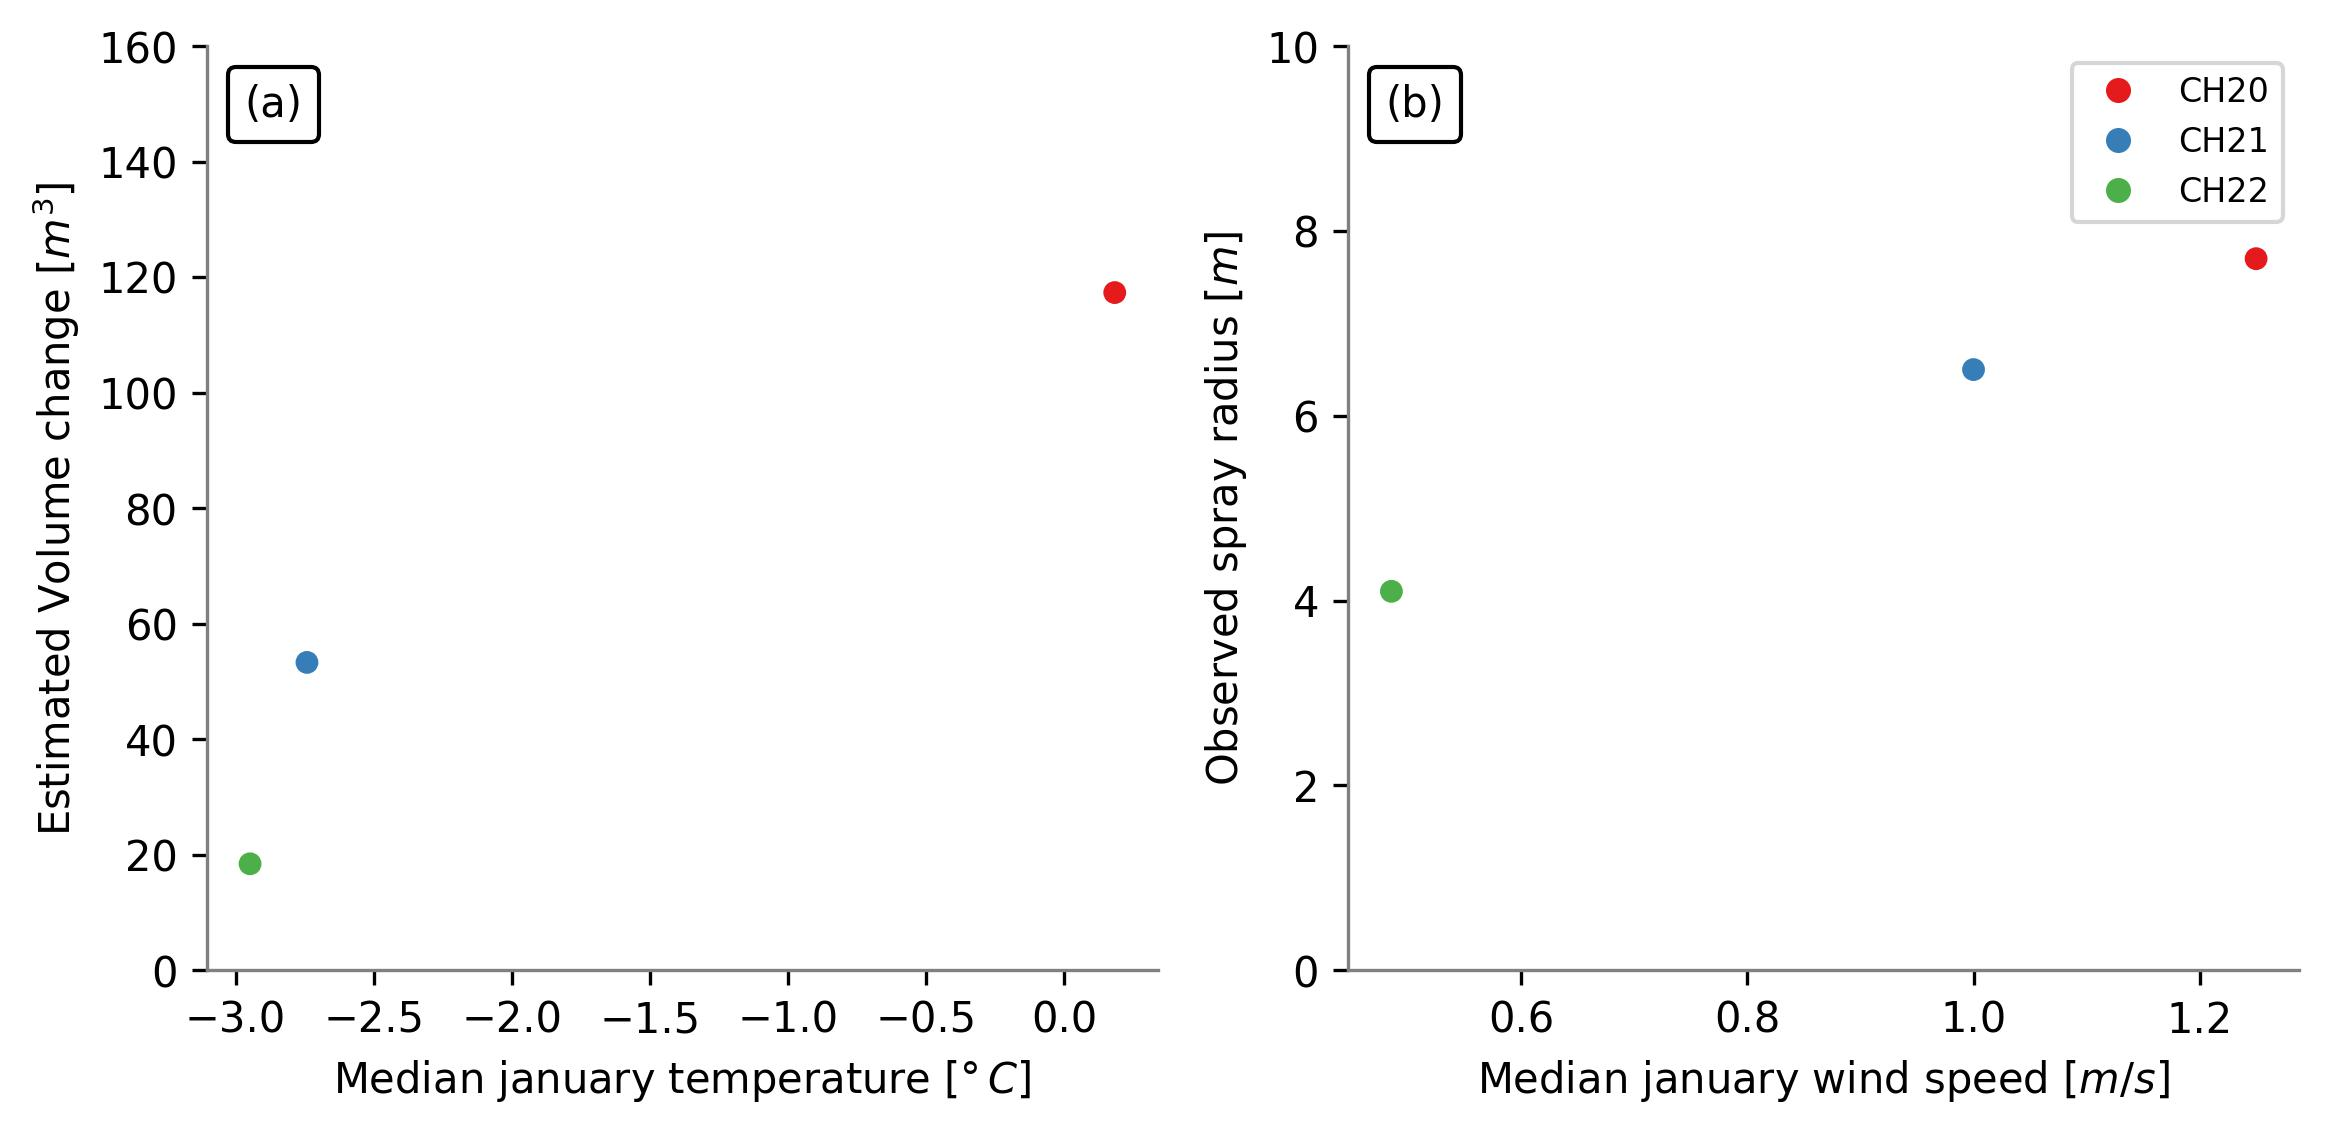
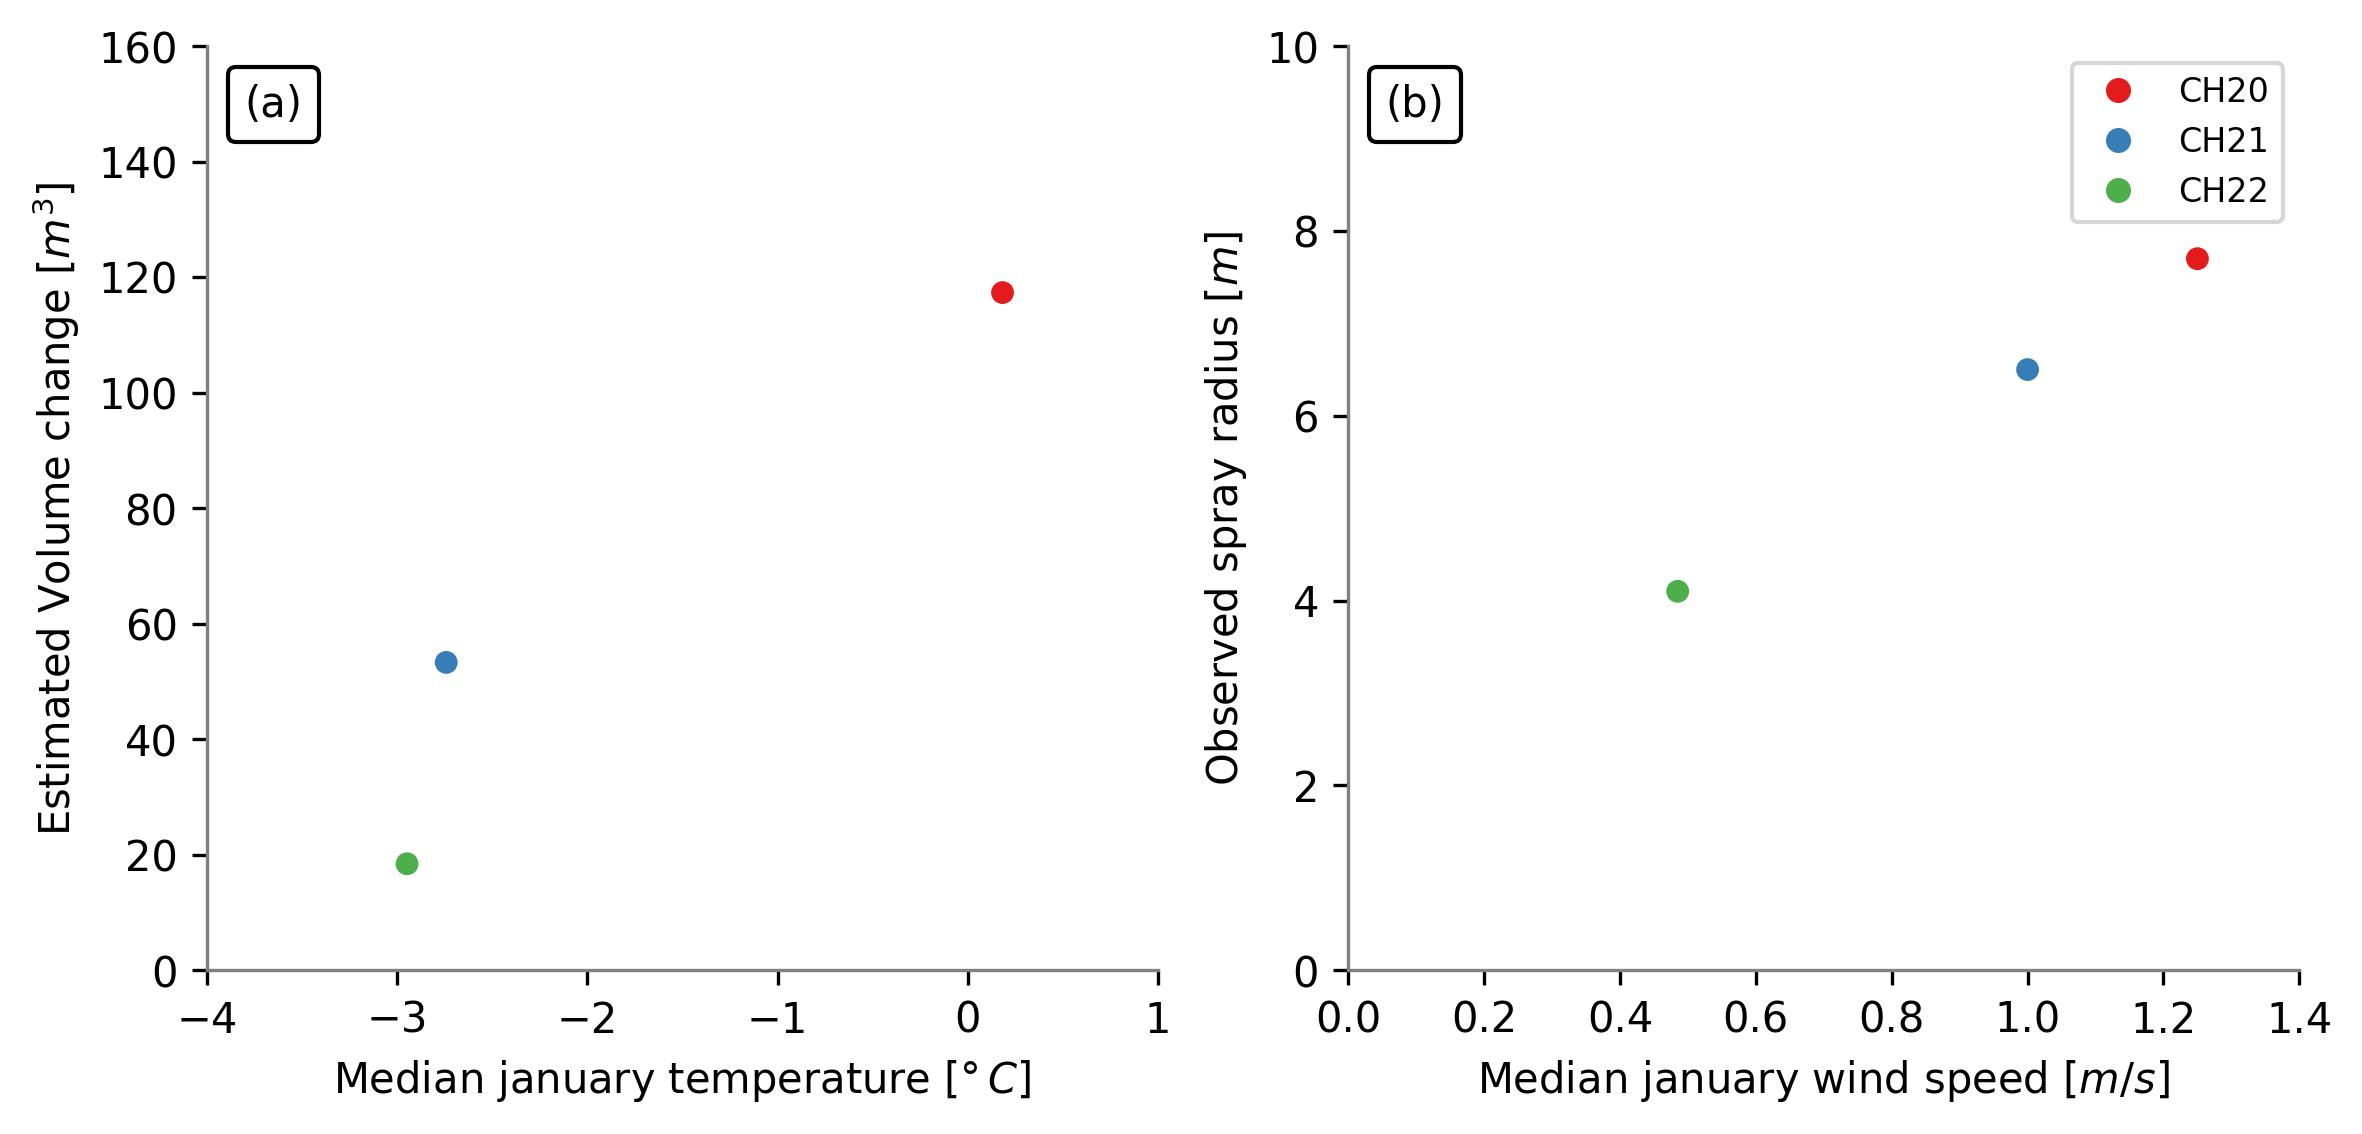
melt_plots

diff --git a/src/misc/ladakh_meltwater.py b/src/misc/ladakh_meltwater.py
@@ -1,0 +1,109 @@
+""" Plots for meltwater"""
+import sys, json
+import os
+import seaborn as sns
+import numpy as np
+import pandas as pd
+import math
+import matplotlib.colors
+from datetime import datetime, timedelta
+from matplotlib.offsetbox import AnchoredText
+import matplotlib.pyplot as plt
+import matplotlib.dates as mdates
+from matplotlib.lines import Line2D
+import logging, coloredlogs
+from sklearn.metrics import r2_score
+
+sys.path.append(
+    os.path.dirname(os.path.dirname(os.path.dirname(os.path.realpath(__file__))))
+)
+from src.utils.settings import config
+from src.models.icestupaClass import Icestupa
+
+if __name__ == "__main__":
+    # Main logger
+    logger = logging.getLogger(__name__)
+    logger.setLevel("ERROR")
+
+    df = pd.read_csv("/home/suryab/work/air_model/data/common/meltwater_2018.txt", sep=",")
+    df = df[df.columns.drop(list(df.filter(regex="Unnamed")))]
+    df = df[df.columns.drop(list(['Day']))]
+    df = df[:-1]
+    df.rename(
+        columns={
+            "Water Collected": "meltwater",
+        },
+        inplace=True,
+    )
+
+    start_date = datetime(2018, 4, 13)
+    for i in range(0,df.shape[0]):
+        df.loc[i,"time"] = start_date + pd.Timedelta(i, unit="d")
+
+    df2 = pd.read_csv("/home/suryab/work/air_model/data/common/meltwater_2017.txt", sep=",")
+    df2 = df2[df2.columns.drop(list(df2.filter(regex="Unnamed")))]
+    df2['Days'] = df2['Days'].str.split('-').str.get(1)
+    df2['Month'] = df2['Month'].ffill()
+    df2['Month'] = df2['Month'].replace(to_replace=['April','May', 'June'], value=[4,5,6])
+    start_date = datetime(2017, 4, 1)
+    df2.rename(
+        columns={
+            "Water Collected": "meltwater",
+        },
+        inplace=True,
+    )
+
+    for i in range(0,df2.shape[0]):
+        df2.loc[i,"time"] = datetime(year=2017, month=int(df2.loc[i,"Month"]), day=int(df2.loc[i,"Days"]))
+    df2 = df2[df2.columns.drop(['Days', 'Month'])]
+    # df2 = df2.set_index('time', drop=True)
+    # df = df.set_index('time', drop=True)
+
+    result = pd.concat([df, df2])
+    result= result.set_index('time', drop=True).sort_index()
+    result['meltwater'] /=1000
+    df1 = result[result.index>datetime(2018, 1, 1)].reset_index()
+    df2 = result[result.index<datetime(2018, 1, 1)].reset_index()
+    df1['time'] = df1['time'].mask(df1['time'].dt.year == 2018, 
+                                 df1['time'] + pd.offsets.DateOffset(year=2021))
+    df2['time'] = df['time'].mask(df2['time'].dt.year == 2017, 
+                                 df2['time'] + pd.offsets.DateOffset(year=2021))
+
+
+    location = 'gangles21'
+    spray = 'unscheduled_field'
+
+    mypal = sns.color_palette("Set1", 2)
+    default = "#284D58"
+    grey = "#ced4da"
+
+    SITE, FOLDER = config(location, spray)
+    icestupa = Icestupa(location, spray)
+    icestupa.read_output()
+
+    dfd = icestupa.df.set_index("time").resample("D").sum().reset_index()
+    dfd = dfd[dfd.time > datetime(2021, 4, 1)]
+
+    fig, ax = plt.subplots(1, 1)
+    x1 = df1.time
+    y1 = df1.meltwater
+    x2 = df2.time
+    y2 = df2.meltwater
+    x3 = dfd.time
+    y3 = dfd.melted/1000
+    ax.plot(x1,y1, label='IN18')
+    ax.plot(x2,y2, label='IN17')
+    ax.plot(x3,y3, label='IN21')
+    ax.spines["right"].set_visible(False)
+    ax.spines["top"].set_visible(False)
+    ax.spines["left"].set_color("grey")
+    ax.spines["bottom"].set_color("grey")
+    ax.set_ylabel("Daily melt [$m^3$]")
+    ax.legend()
+
+    ax.xaxis.set_major_locator(mdates.WeekdayLocator())
+    ax.xaxis.set_major_formatter(mdates.DateFormatter("%b %d"))
+    fig.autofmt_xdate()
+    plt.savefig("data/figs/thesis/melt.png", bbox_inches="tight", dpi=300)
+    plt.close()
+

diff --git a/src/plots/CH_diffs.py b/src/plots/CH_diffs.py
@@ -61,6 +61,7 @@ if __name__ == "__main__":
     ax[0].set_ylabel("Estimated Volume change [$m^3$]")
     ax[0].set_xlabel("Median january temperature [$\degree\,C$]")
     ax[0].set_ylim([0,160])
+    ax[0].set_xlim([-4,1])
     # handles, labels = ax[0].get_legend_handles_labels()
     # ax[0].get_legend().remove()
 
@@ -72,6 +73,7 @@ if __name__ == "__main__":
     ax[1].set_ylabel("Observed spray radius [$m$]")
     ax[1].set_xlabel("Median january wind speed [$m/s$]")
     ax[1].set_ylim([0,10])
+    ax[1].set_xlim([0,1.4])
 
     at = AnchoredText("(b)", prop=dict(size=10), frameon=True, loc="upper left")
     at.patch.set_boxstyle("round,pad=0.,rounding_size=0.2")
